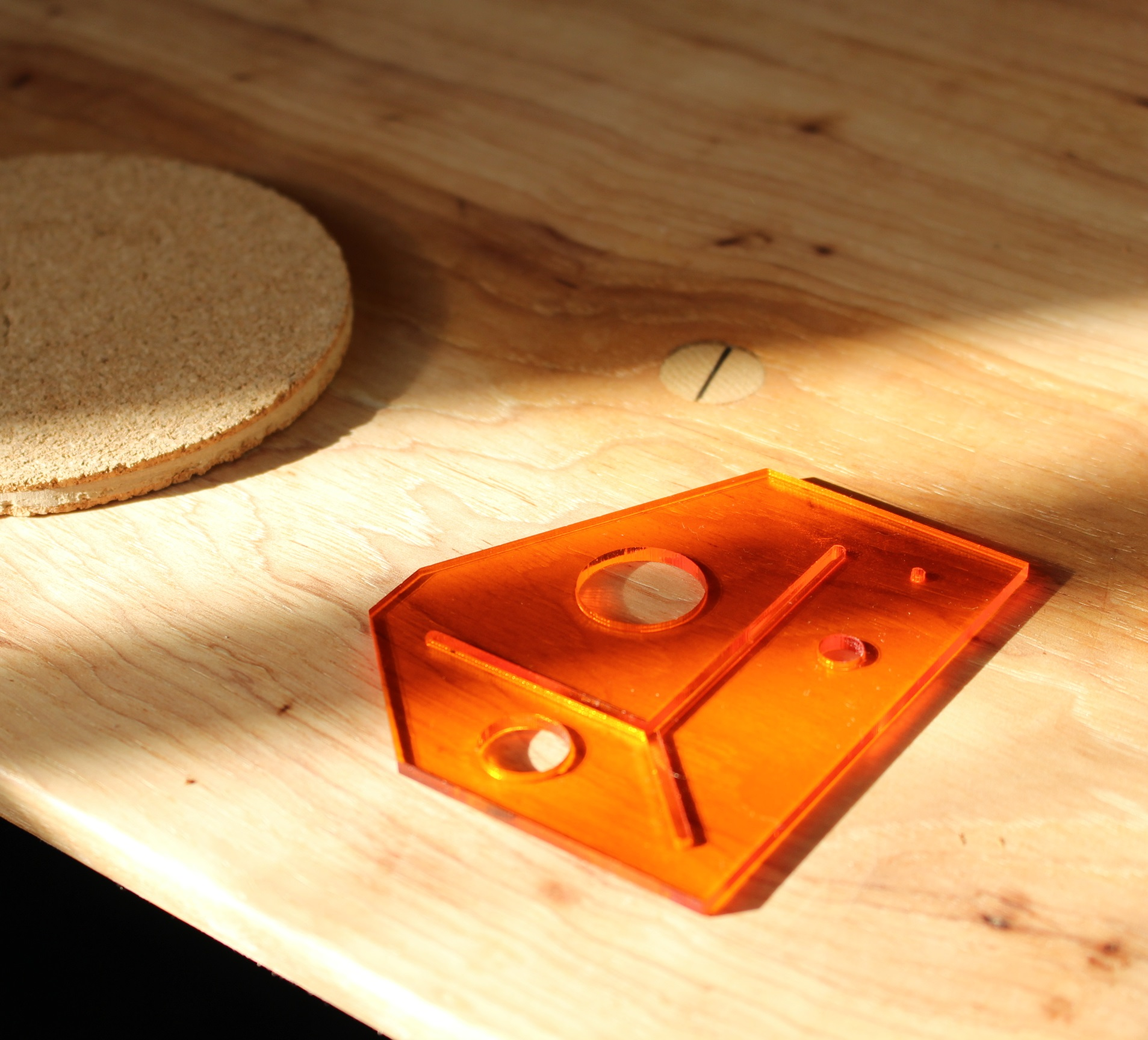
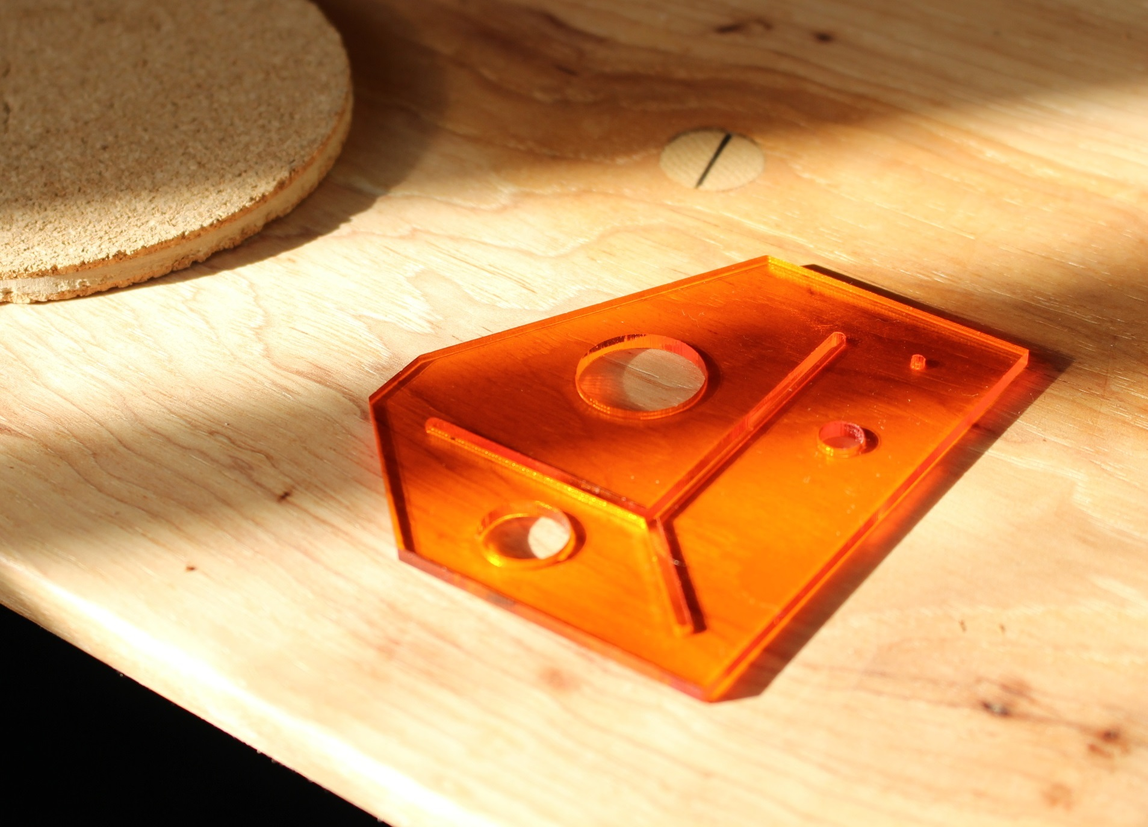
Tweaked heights and images for desktop and mobile versions

diff --git a/styles/styles.css b/styles/styles.css
@@ -167,13 +167,13 @@ p{
 }
 
 #graphite-image{
-    height: 25rem;
-    background-image: url(../images/graphrite-window.JPG);
+    height: 22rem;
+    background-image: url(../images/multi-colored.JPG);
     background-size: cover;
     background-repeat: no-repeat;
 }
 #graphite-image-bottom{
-    height: 30rem;
+    height: 25rem;
     background-image: url(../images/big-graphrite-table-mobile.JPG);
     background-size: cover;
     background-repeat: no-repeat;
@@ -264,10 +264,6 @@ p{
 .footer{
     height: 15rem;
     background-image: url(../images/Graphrite%20background.png);
-    background-attachment: fixed;
-    background-position: center;
-    background-size: cover;
-    background-repeat: no-repeat;
 }
 
 @media only screen and (min-width: 700px) {
@@ -297,16 +293,16 @@ p{
     }
 
     #graphite-image{
-        height: 33rem;
-        background-image: url(../images/graphrite-window.JPG);
+        height: 40rem;
+        background-image: url(../images/multi-colored.JPG);
         background-attachment: fixed;
         background-position: center;
         background-size: cover;
         background-repeat: no-repeat;
     }
     #graphite-image-bottom{
-    height: 33rem;
-        background-image: url(../images/graphrite-window.JPG);
+        height: 37rem;
+        background-image: url(../images/blue-graphite.JPG);
         background-attachment: fixed;
         background-position: center;
         background-size: cover;
